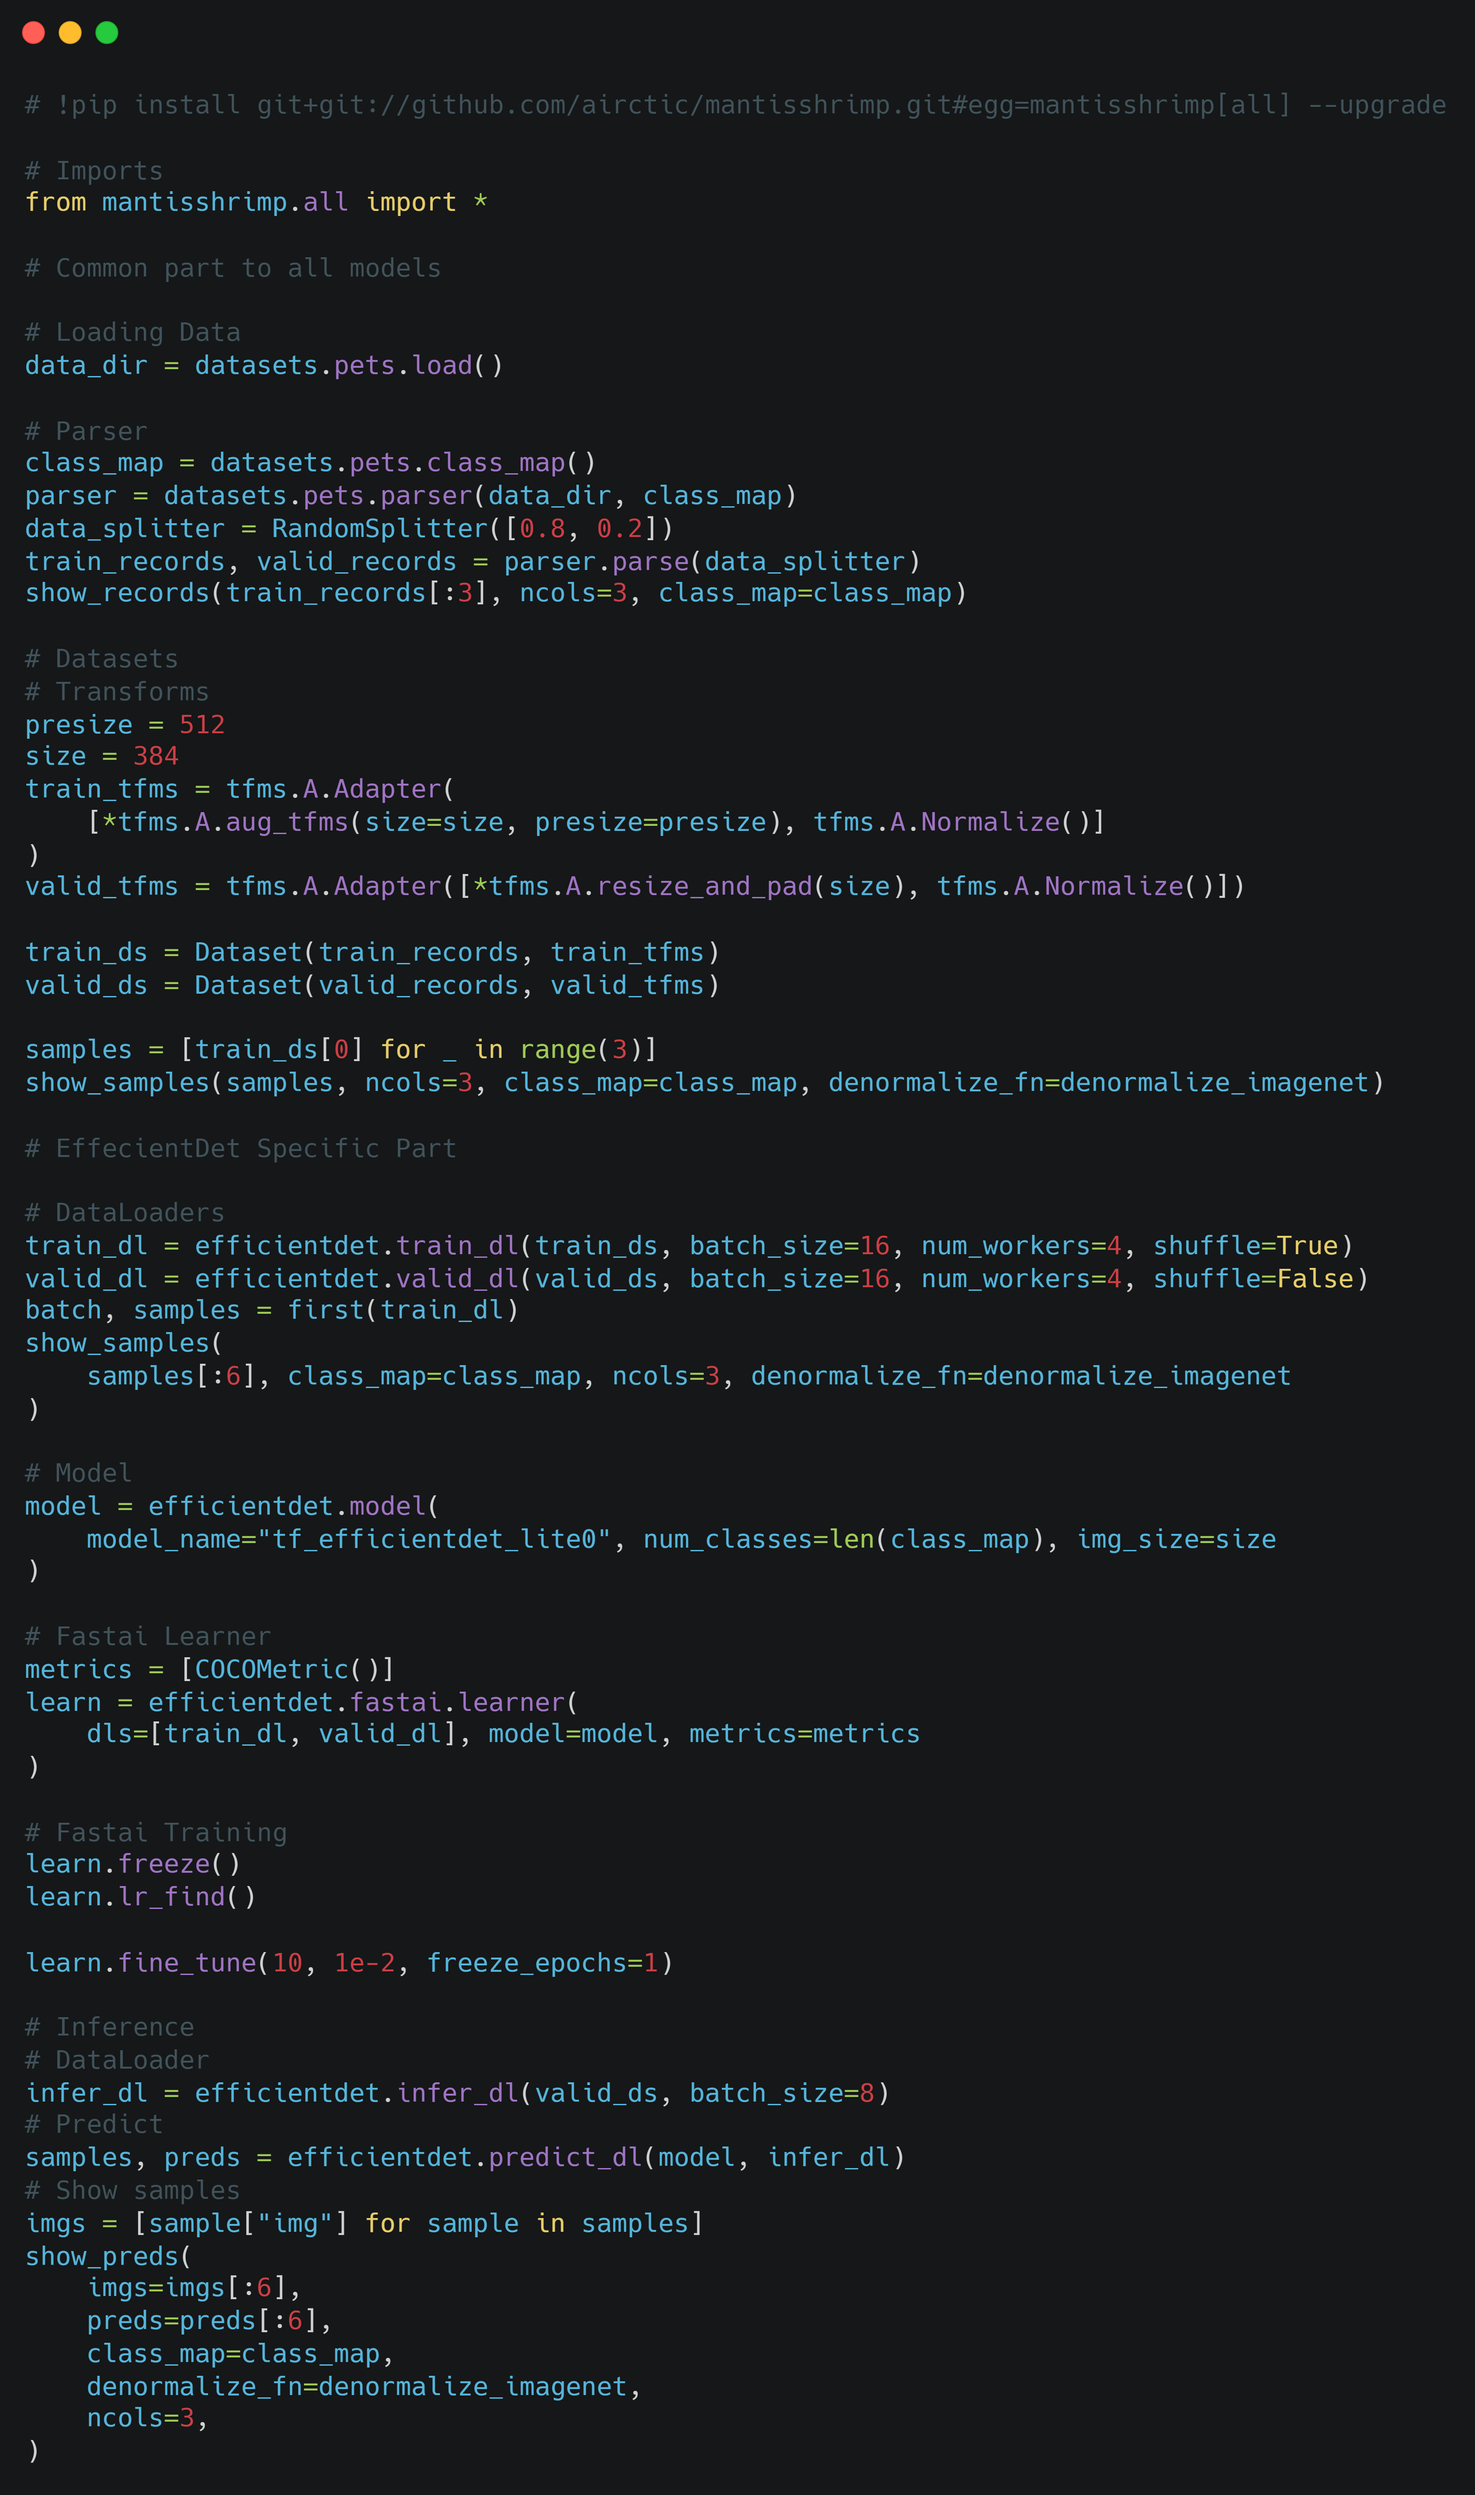
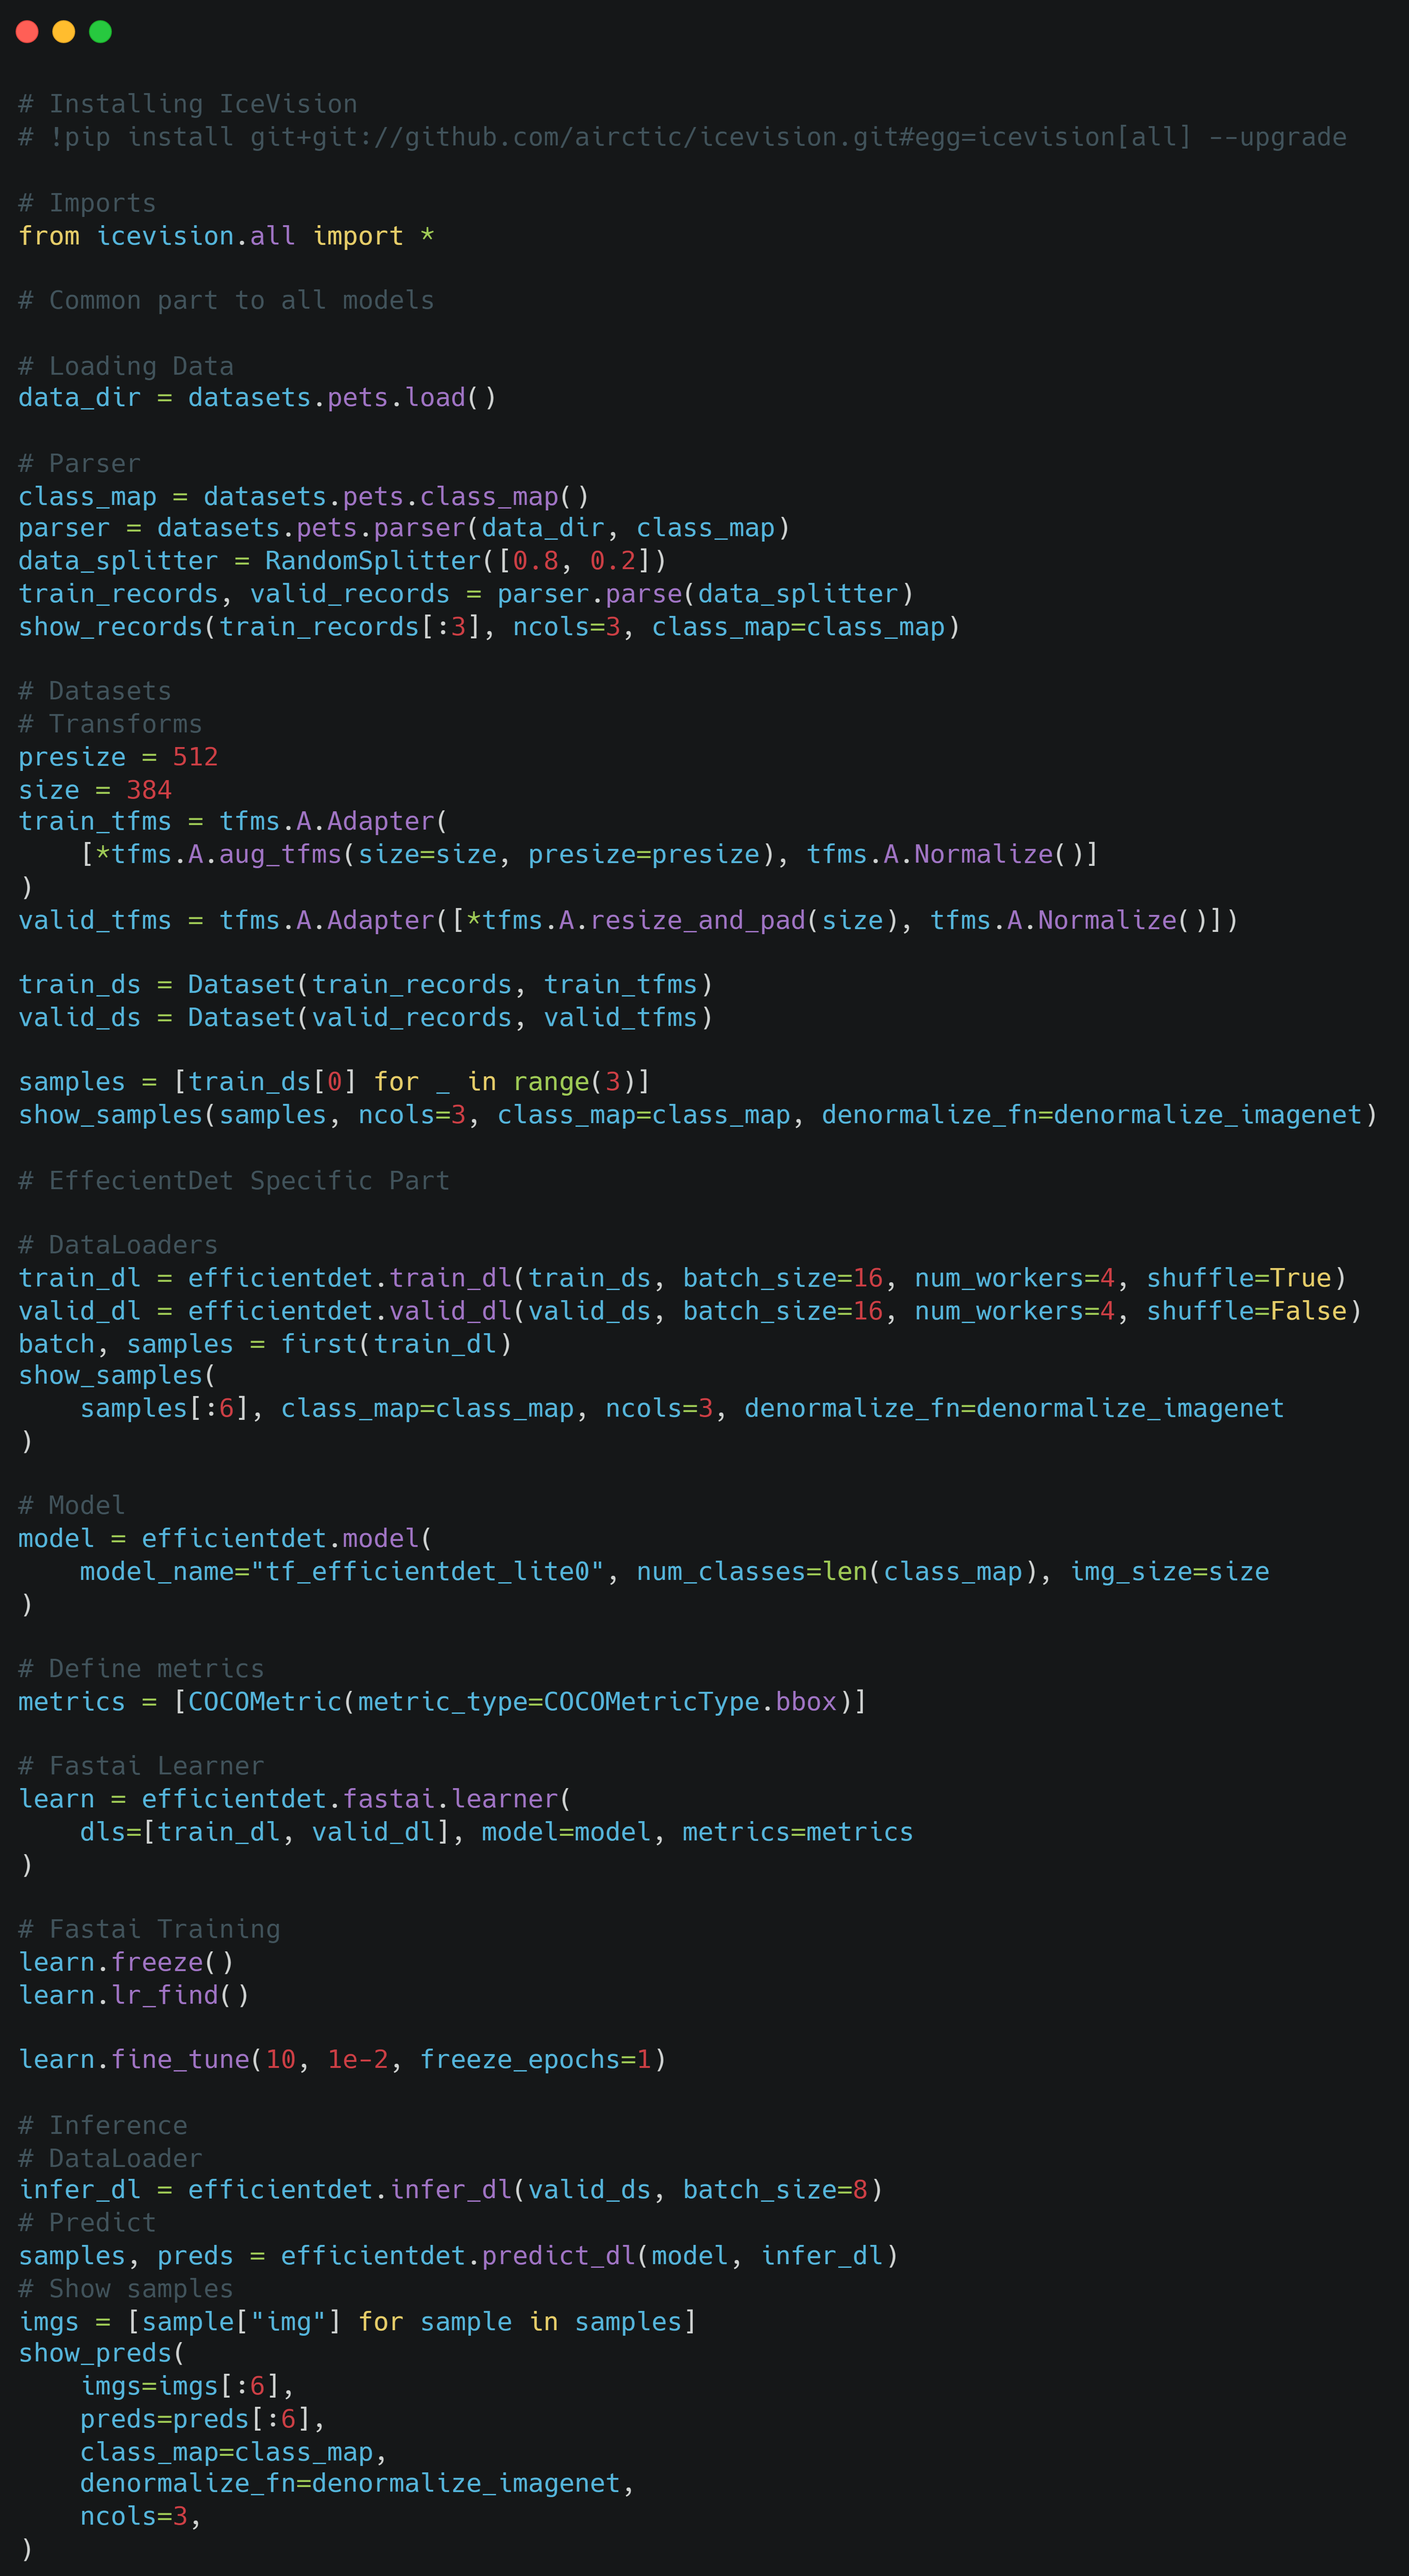
Update readme source code screenshot + mantisshrimp_dir (#390)
* deleted unused images

* deleted unused images

* updated README source code screenshot

* update effecientdet source screenshot image

* deleted unused image

* replaced mantisshrimp_dir by icevision_dir

diff --git a/docs/autogen.py b/docs/autogen.py
@@ -64,9 +64,7 @@ PAGES = {
         "icevision.models.rcnn.mask_rcnn.dataloaders.build_valid_batch",
         "icevision.models.rcnn.mask_rcnn.dataloaders.build_infer_batch",
     ],
-    "mask_rcnn_fastai.md": [
-        "icevision.models.rcnn.mask_rcnn.fastai.learner.learner",
-    ],
+    "mask_rcnn_fastai.md": ["icevision.models.rcnn.mask_rcnn.fastai.learner.learner",],
     "mask_rcnn_lightning.md": [
         "icevision.models.rcnn.mask_rcnn.lightning.model_adapter.ModelAdapter",
     ],
@@ -79,9 +77,7 @@ PAGES = {
         "icevision.models.efficientdet.dataloaders.build_valid_batch",
         "icevision.models.efficientdet.dataloaders.build_infer_batch",
     ],
-    "efficientdet_fastai.md": [
-        "icevision.models.efficientdet.fastai.learner.learner",
-    ],
+    "efficientdet_fastai.md": ["icevision.models.efficientdet.fastai.learner.learner",],
     "efficientdet_lightning.md": [
         "icevision.models.efficientdet.lightning.model_adapter.ModelAdapter",
     ],
@@ -97,8 +93,8 @@ PAGES = {
 
 ROOT = "https://airctic.github.io/icevision/"
 
-mantisshrimp_dir = Path(__file__).resolve().parents[1]
-print("mantisshrimp_dir: ", mantisshrimp_dir)
+icevision_dir = Path(__file__).resolve().parents[1]
+print("icevision_dir: ", icevision_dir)
 
 
 # From keras_autodocs
@@ -198,7 +194,7 @@ def py_to_nb_md(dest_dir):
 
 
 def nb_to_md(dest_dir):
-    notebooks_dir = mantisshrimp_dir / "notebooks"
+    notebooks_dir = icevision_dir / "notebooks"
     print("Notebooks folder: ", notebooks_dir)
 
     for file_path in os.listdir(notebooks_dir):
@@ -219,7 +215,7 @@ def nb_to_md(dest_dir):
 
 
 def examples_to_md(dest_dir):
-    examples_dir = mantisshrimp_dir / "examples"
+    examples_dir = icevision_dir / "examples"
     print("Examples folder: ", examples_dir)
 
     for file_path in os.listdir(examples_dir):
@@ -239,7 +235,7 @@ def examples_to_md(dest_dir):
 
 
 def generate(dest_dir: Path):
-    template_dir = mantisshrimp_dir / "docs" / "templates"
+    template_dir = icevision_dir / "docs" / "templates"
     template_images_dir = Path(template_dir) / "images"
 
     # Create dest_dir if doesn't exist
@@ -249,14 +245,14 @@ def generate(dest_dir: Path):
     os.makedirs(dest_dir)
 
     # Copy images folder from root folder to the template images folder
-    copy_tree(str(mantisshrimp_dir / "images"), str(template_images_dir))
+    copy_tree(str(icevision_dir / "images"), str(template_images_dir))
 
     # Generate APIs Documentation
     doc_generator = keras_autodoc.DocumentationGenerator(
         pages=PAGES,
         project_url="https://github.com/airctic/icevision/blob/master",
         template_dir=template_dir,
-        examples_dir=mantisshrimp_dir / "examples",
+        examples_dir=icevision_dir / "examples",
     )
     doc_generator.generate(dest_dir)
 
@@ -264,7 +260,7 @@ def generate(dest_dir: Path):
     shutil.copyfile("manifest.webmanifest", dest_dir / "manifest.webmanifest")
 
     # Auto generate the index.md file using the README.md file and the index.md file in templates folder
-    readme = (mantisshrimp_dir / "README.md").read_text()
+    readme = (icevision_dir / "README.md").read_text()
 
     # Search for the beginning and the end of the installation procedure to hide in Docs to avoid duplication
     start = readme.find("<!-- Not included in docs - start -->")
@@ -277,67 +273,63 @@ def generate(dest_dir: Path):
     (dest_dir / "index.md").write_text(index, encoding="utf-8")
 
     # Copy static .md files from the root folder
-    shutil.copyfile(mantisshrimp_dir / "CONTRIBUTING.md", dest_dir / "contributing.md")
+    shutil.copyfile(icevision_dir / "CONTRIBUTING.md", dest_dir / "contributing.md")
     shutil.copyfile(
-        mantisshrimp_dir / "CODE_OF_CONDUCT.md", dest_dir / "code_of_conduct.md"
+        icevision_dir / "CODE_OF_CONDUCT.md", dest_dir / "code_of_conduct.md"
     )
 
     # Copy static .md files from the docs folder
-    shutil.copyfile(mantisshrimp_dir / "docs/INSTALL.md", dest_dir / "install.md")
+    shutil.copyfile(icevision_dir / "docs/INSTALL.md", dest_dir / "install.md")
     shutil.copyfile(
-        mantisshrimp_dir / "docs/HOW-TO.md",
-        dest_dir / "how-to.md",
+        icevision_dir / "docs/HOW-TO.md", dest_dir / "how-to.md",
     )
-    shutil.copyfile(mantisshrimp_dir / "docs/ABOUT.md", dest_dir / "about.md")
+    shutil.copyfile(icevision_dir / "docs/ABOUT.md", dest_dir / "about.md")
 
-    shutil.copyfile(mantisshrimp_dir / "docs/README.md", dest_dir / "readme_mkdocs.md")
+    shutil.copyfile(icevision_dir / "docs/README.md", dest_dir / "readme_mkdocs.md")
 
     shutil.copyfile(
-        mantisshrimp_dir / "docs/CHANGING-THE-COLORS.md",
+        icevision_dir / "docs/CHANGING-THE-COLORS.md",
         dest_dir / "changing_the_colors.md",
     )
 
-    shutil.copyfile(mantisshrimp_dir / "docs/DEPLOYMENT.md", dest_dir / "deployment.md")
+    shutil.copyfile(icevision_dir / "docs/DEPLOYMENT.md", dest_dir / "deployment.md")
 
     # Copy static .md files from the other folders
     shutil.copyfile(
-        mantisshrimp_dir / "icevision/models/README.md",
-        dest_dir / "model_comparison.md",
+        icevision_dir / "icevision/models/README.md", dest_dir / "model_comparison.md",
     )
 
     shutil.copyfile(
-        mantisshrimp_dir / "icevision/models/efficientdet/README.md",
+        icevision_dir / "icevision/models/efficientdet/README.md",
         dest_dir / "model_efficientdet.md",
     )
 
     shutil.copyfile(
-        mantisshrimp_dir / "icevision/models/rcnn/faster_rcnn/README.md",
+        icevision_dir / "icevision/models/rcnn/faster_rcnn/README.md",
         dest_dir / "model_faster_rcnn.md",
     )
 
     shutil.copyfile(
-        mantisshrimp_dir / "icevision/backbones/backbones_effecientdet.md",
+        icevision_dir / "icevision/backbones/backbones_effecientdet.md",
         dest_dir / "backbones_effecientdet.md",
     )
 
     shutil.copyfile(
-        mantisshrimp_dir / "icevision/backbones/backbones_faster_mask_rcnn.md",
+        icevision_dir / "icevision/backbones/backbones_faster_mask_rcnn.md",
         dest_dir / "backbones_faster_mask_rcnn.md",
     )
 
     shutil.copyfile(
-        mantisshrimp_dir / "icevision/datasets/README.md",
-        dest_dir / "datasets.md",
+        icevision_dir / "icevision/datasets/README.md", dest_dir / "datasets.md",
     )
 
     shutil.copyfile(
-        mantisshrimp_dir / "icevision/tfms/README.md",
-        dest_dir / "albumentations.md",
+        icevision_dir / "icevision/tfms/README.md", dest_dir / "albumentations.md",
     )
 
     # Copy .md examples files to destination examples folder
     # Copy css folder
-    copy_tree(str(mantisshrimp_dir / "examples"), str(dest_dir / "examples"))
+    copy_tree(str(icevision_dir / "examples"), str(dest_dir / "examples"))
 
     # Copy images folder from the template folder to the destination folder
     print("Template folder: ", template_images_dir)
@@ -347,10 +339,10 @@ def generate(dest_dir: Path):
     copy_tree(str(template_images_dir), str(dest_images_dir))
 
     # Copy css folder
-    copy_tree(str(mantisshrimp_dir / "docs/css"), str(dest_dir / "css"))
+    copy_tree(str(icevision_dir / "docs/css"), str(dest_dir / "css"))
 
     # Copy js folder
-    copy_tree(str(mantisshrimp_dir / "docs/js"), str(dest_dir / "js"))
+    copy_tree(str(icevision_dir / "docs/js"), str(dest_dir / "js"))
 
     # Generate .md files form Jupyter Notebooks located in the /ipynb folder
     nb_to_md(dest_dir)
@@ -360,4 +352,4 @@ def generate(dest_dir: Path):
 
 
 if __name__ == "__main__":
-    generate(mantisshrimp_dir / "docs" / "sources")
+    generate(icevision_dir / "docs" / "sources")

diff --git a/icevision/models/rcnn/faster_rcnn/README.md b/icevision/models/rcnn/faster_rcnn/README.md
@@ -71,7 +71,7 @@ trainer.fit(light_model, train_dl, valid_dl)
 ## How to train the **PETS Dataset** using **Faster RCNN**
 
 [**Source Code**](https://airctic.github.io/icevision/examples/training/)
-![image](https://airctic.github.io/icevision/images/mantis-readme.png)
+![image](https://airctic.github.io/icevision/images/icevision.png)
 
 
 ## Paper Introduction

diff --git a/README.md b/README.md
@@ -48,7 +48,7 @@ For more installation options, check our [docs](https://airctic.github.io/icevis
 
 ## Quick Example: How to train the **PETS Dataset**
 [**Source Code**](https://airctic.github.io/icevision/examples/training/)
-![image](images/mantis-readme.png)
+![image](images/icevision-readme.png)
 
 
 
